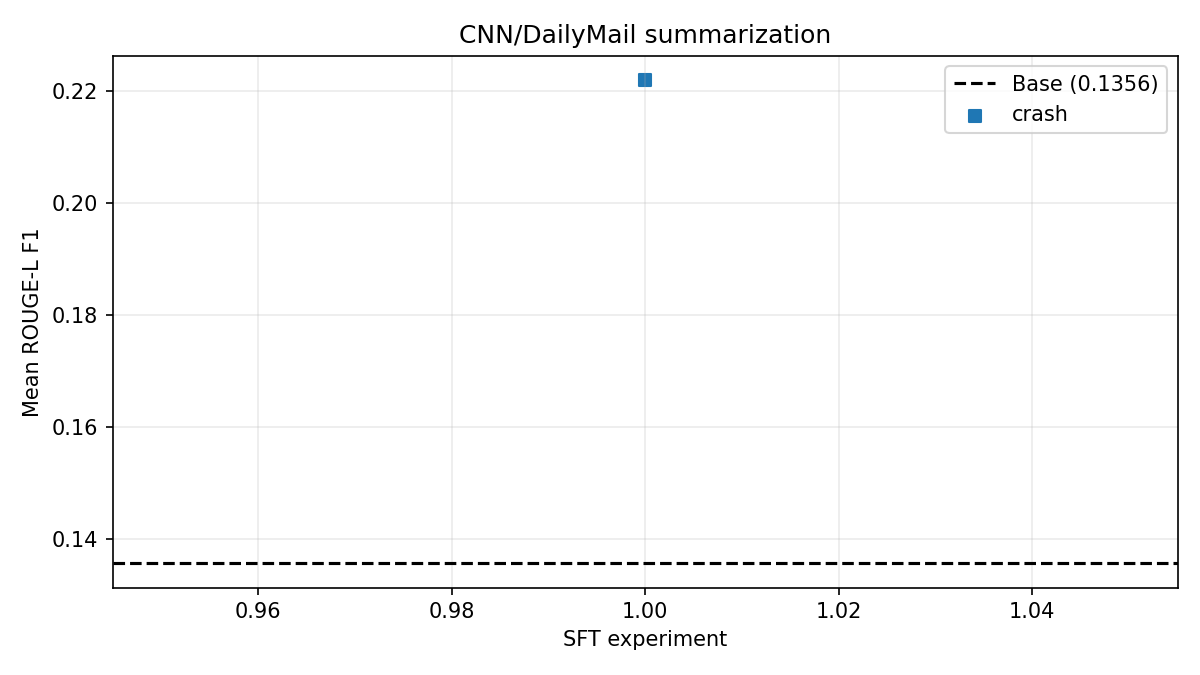
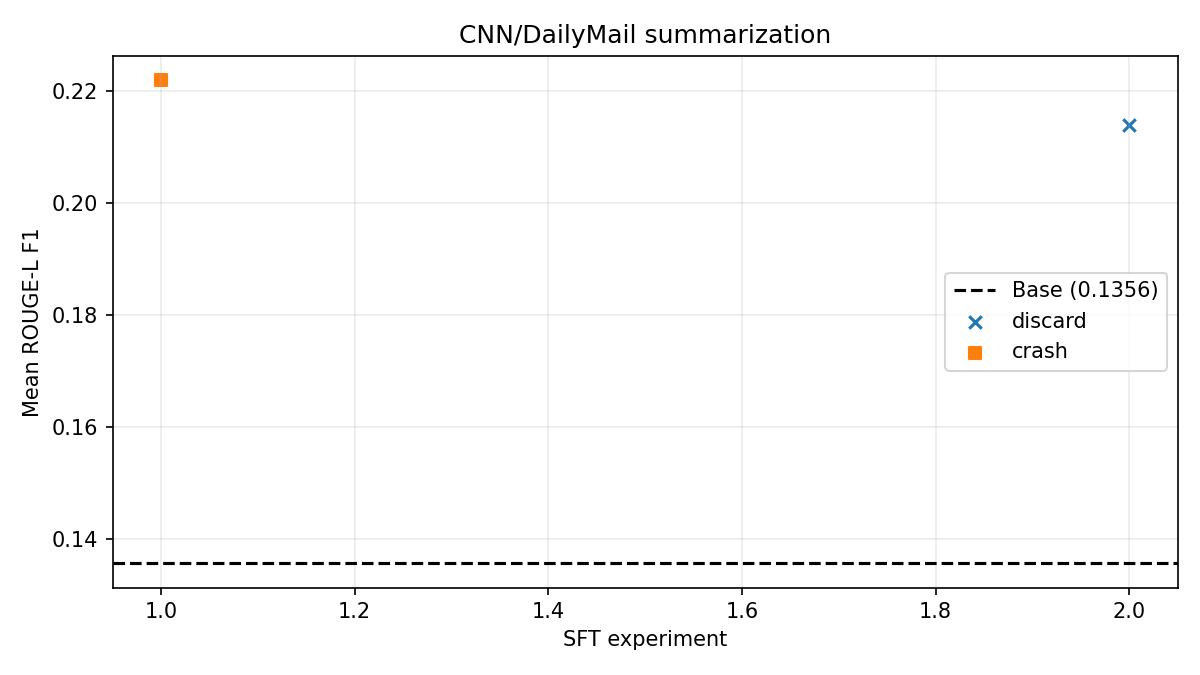
Record retried 0.5 LRM evaluation

diff --git a/autoresearch/result/results.md b/autoresearch/result/results.md
@@ -6,3 +6,4 @@
 | --- | --- | --- | --- | --- | --- | --- | --- | --- | --- |
 | base-20261002T155033700805Z-a3d40d | gpt-4.1-nano | base | — | — | — | 0.1356 | 0.0000 | 100/100 | Base GPT-4.1-nano |
 | **sft-20261004T030741731359Z-ea112e** | **gpt-4.1-nano-2025-04-14.ft-a92cf006bbdf46d89da010de04a8f610-auto-e47c6763** | **sft** | **2** | **1.0000** | **1** | **0.2220** | **0.0864** | **97/100** | **Invalid run metadata: resumed LRM 0.5000 job was labeled 1.0000 from current knobs; rerun with ledger-backed metadata** |
+| sft-20261004T032116487071Z-0a218b | gpt-4.1-nano-2025-04-14.ft-a92cf006bbdf46d89da010de04a8f610-auto-e47c6763 | sft | 2 | 0.5000 | 1 | 0.2140 | 0.0784 | 97/100 | LRM 0.5000 scored 0.0097 below the retained two-epoch SFT; 97 scored and 3 content-filtered rows |
